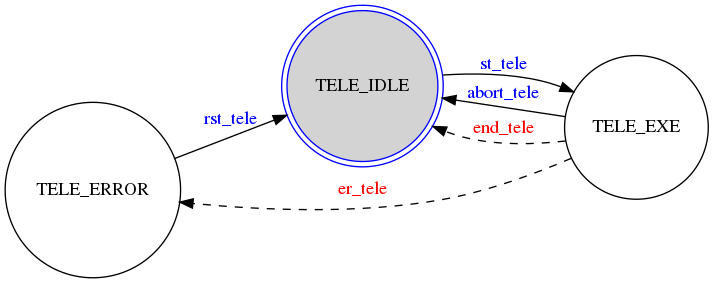
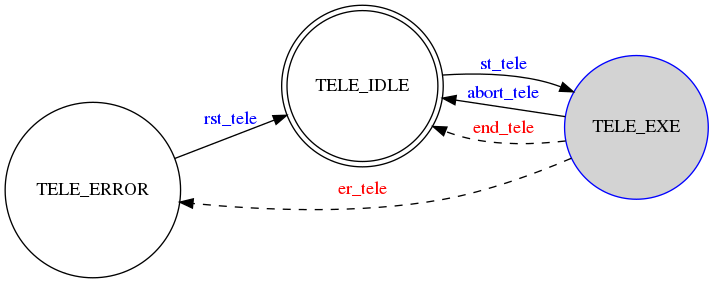
battery monitor correction on teleoperation mode

Changed region(s): [[0.3697, 0.0, 0.6471, 0.5936], [0.7703, 0.1979, 1.0, 0.7067]]

diff --git a/src/payloads/src/battery_monitor.py b/src/payloads/src/battery_monitor.py
@@ -6,6 +6,7 @@ from threading import Thread
 from actionlib_msgs.msg import GoalStatusArray
 from actionlib import GoalStatus
 from system_msgs.msg import events_message
+from geometry_msgs.msg import Twist
 
 class BatteryMonitor(Thread):
 
@@ -27,7 +28,7 @@ class BatteryMonitor(Thread):
         self.__weights = {'move': motion_w,
                           'victim_sensor': victim_w, 
                           'gas_sensor': gas_w}                                                 
-        self.__sensors_status = {'move_base': False, 'victim_sensor': False, 'gas_sensor': False}       # Variable to know sensor status
+        self.__sensors_status = {'move_base': False, 'victim_sensor': False, 'gas_sensor': False, 'cmd': False}       # Variable to know sensor status
 
         # Message object
         self.msg = events_message()                                                                              
@@ -40,7 +41,10 @@ class BatteryMonitor(Thread):
         rospy.Subscriber("battery_monitor/in", events_message, self.event_receiver)            # Topic to receive occured events
         rospy.Subscriber("victim_sensor/in", events_message, self.victim_sensor_status)        # Topic to monitor victim sensor status
         rospy.Subscriber("gas_sensor/in", events_message, self.gas_sensor_status)              # Topic to monitor gas sensor status
+
+        ##Topics to monitor motion
         rospy.Subscriber(motion_topic, GoalStatusArray, self.move_base_status)                 # Topic to monitor move_base status
+        rospy.Subscriber("cmd_vel", Twist, self.cmd)                 # Topic to monitor move_base status
 
     def run(self):
         #Monitor the battery level
@@ -55,7 +59,7 @@ class BatteryMonitor(Thread):
             if self.__sensors_status['gas_sensor']:
                 bat_delta += self.__weights['gas_sensor']
 
-            if self.__sensors_status['move_base']: 
+            if self.__sensors_status['move_base'] or self.__sensors_status['cmd']: 
                 bat_delta += self.__weights['move']
             
             self.battery_level -= bat_delta                             # Update battery level
@@ -94,6 +98,23 @@ class BatteryMonitor(Thread):
                 self.__sensors_status['move_base'] = False
         except:
             self.__sensors_status['move_base'] = False
+
+    def cmd(self, msg):
+
+        if msg.linear.x:
+            self.__sensors_status['cmd'] = True
+        elif msg.linear.y:
+            self.__sensors_status['cmd'] = True
+        elif msg.linear.z:
+            self.__sensors_status['cmd'] = True
+        elif msg.angular.x:
+            self.__sensors_status['cmd'] = True
+        elif msg.angular.y:
+            self.__sensors_status['cmd'] = True
+        elif msg.angular.z:
+            self.__sensors_status['cmd'] = True
+        else:
+            self.__sensors_status['cmd'] = False
 
     def event_receiver(self, msg):
         #Receive battery level
